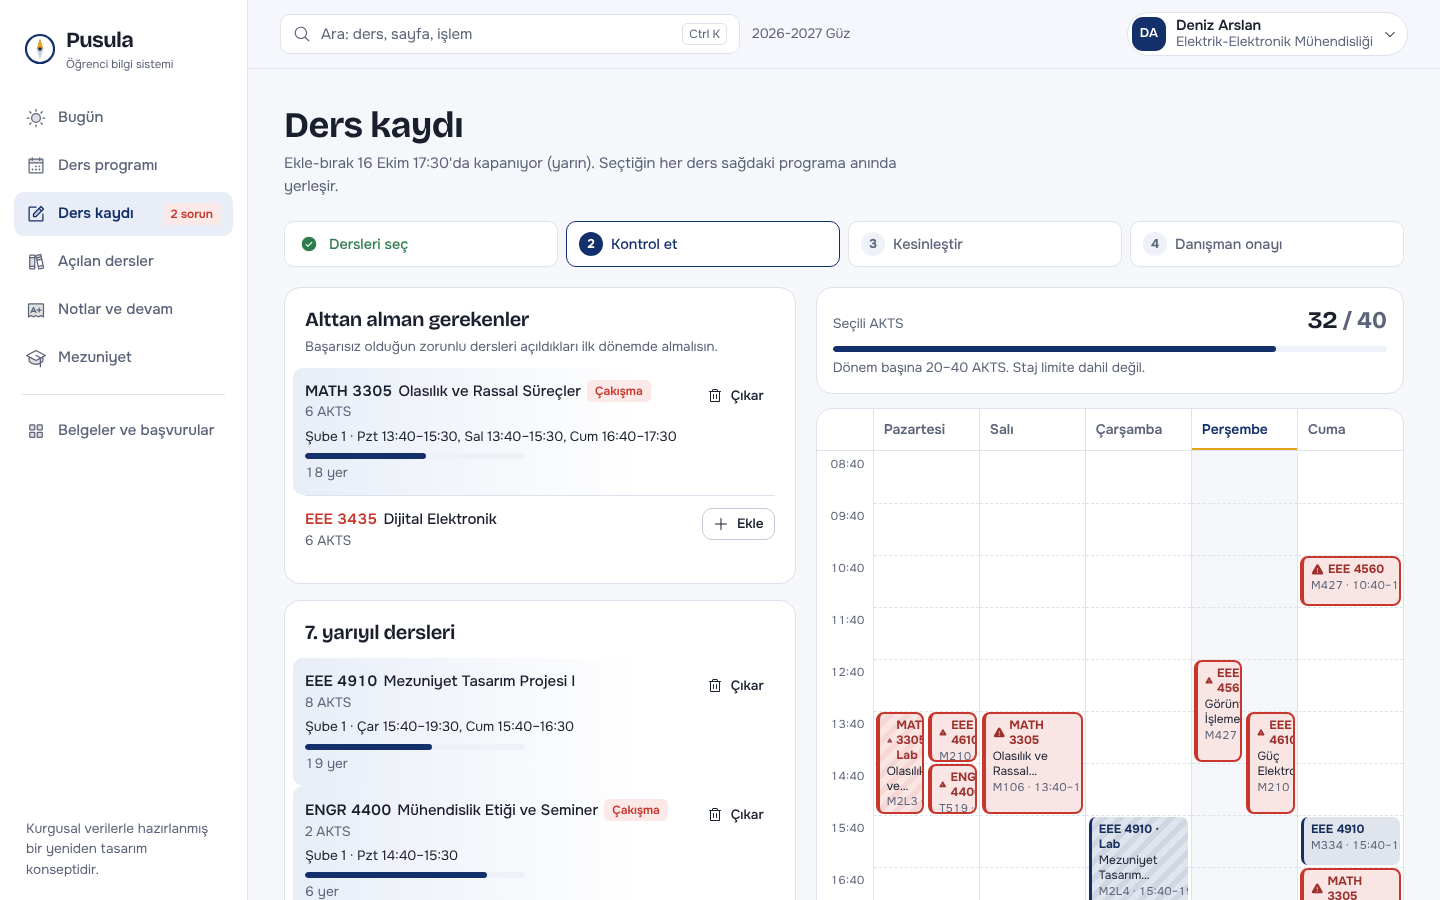
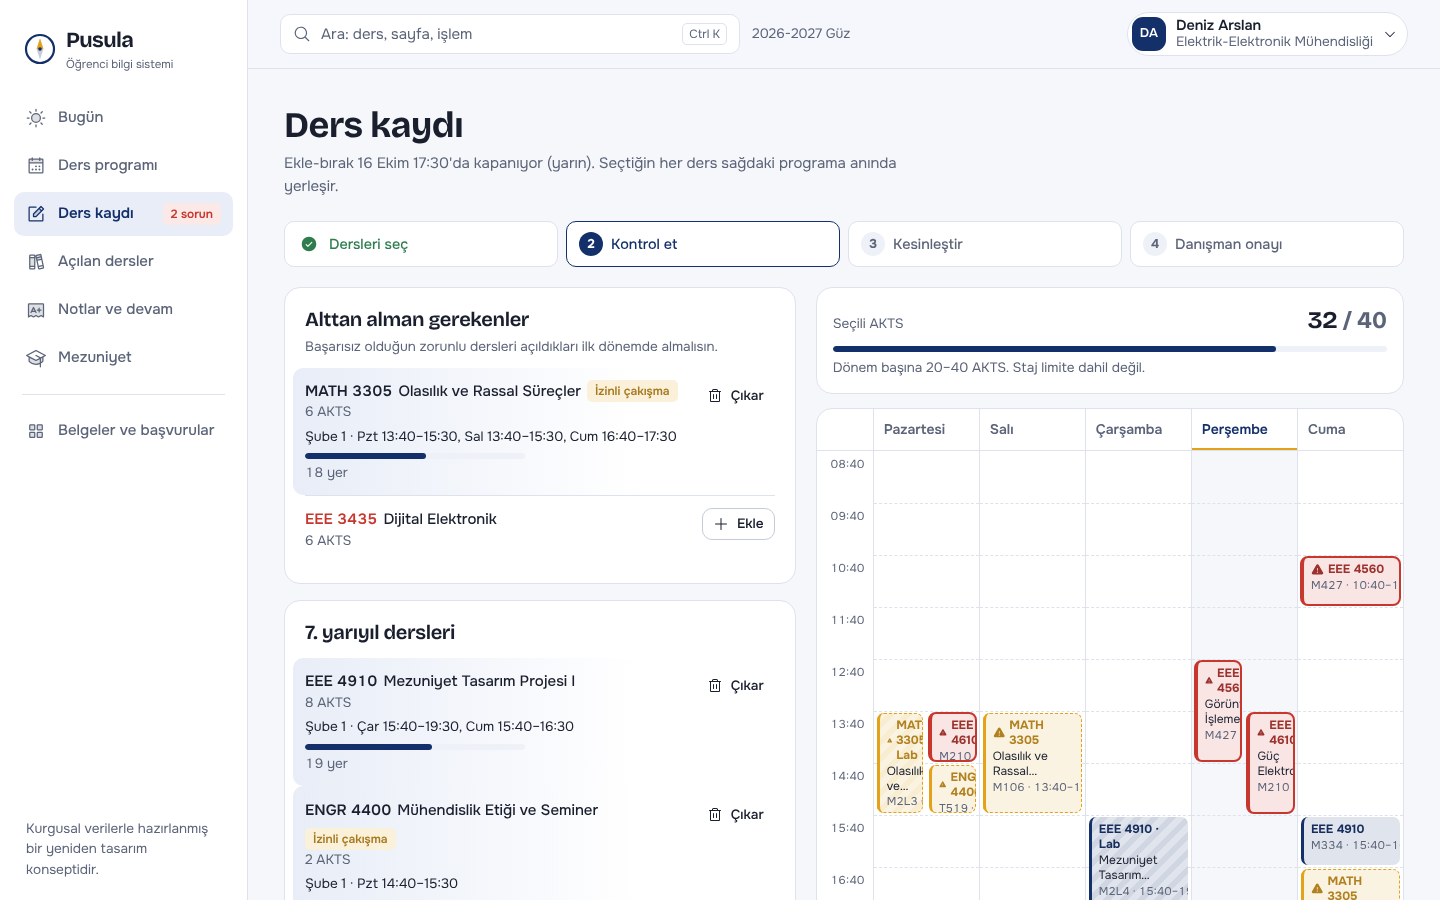
Kurallara göre izin verilen çakışmaları ayrı renkte göster
Claude-Session: https://claude.ai/code/session_01DAg3iQiUxSfv8Zgsi3HP1C

diff --git a/src/pages/Registration.jsx b/src/pages/Registration.jsx
@@ -6,7 +6,7 @@ import WeekGrid from '../components/WeekGrid.jsx'
 import { Quota } from './Courses.jsx'
 import { norm } from '../components/CommandPalette.jsx'
 import { COURSES, SECTIONS, CURRICULA, ELECTIVE_GROUPS, DAYS_SHORT, findSection } from '../data/catalog.js'
-import { blocksFor, conflictCodes, solveSections, timeRange, findConflicts } from '../lib/schedule.js'
+import { blocksFor, conflictCodes, softConflictCodes, solveSections, timeRange, findConflicts } from '../lib/schedule.js'
 import { validate, mustRetake, overlapAllowed } from '../lib/rules.js'
 import { calendarState, formatDate, relativeDay } from '../lib/dates.js'
 
@@ -27,7 +27,9 @@ export default function Registration() {
   const [solverMsg, setSolverMsg] = useState(null)
 
   const check = validate(student, sel)
-  const clashSet = conflictCodes(sel)
+  const allowed = overlapAllowed(student)
+  const clashSet = conflictCodes(sel, allowed)
+  const softSet = softConflictCodes(sel, allowed)
   const selected = new Map(sel.map((s) => [s.code, s.no]))
   const cal = calendarState()
   const addDrop = cal.items.find((e) => e.id === 'ekle')
@@ -55,7 +57,7 @@ export default function Registration() {
   const autoFix = () => {
     const codes = sel.map((s) => s.code)
     const fixed = Object.fromEntries(sel.filter((s) => s.code.endsWith('4830')).map((s) => [s.code, s.no]))
-    const res = solveSections(codes, { fixed, limit: 1, ignore: overlapAllowed(student) })
+    const res = solveSections(codes, { fixed, limit: 1, ignore: allowed })
     if (res.length) {
       const changed = res[0].filter((r) => selected.get(r.code) !== r.no).length
       setRegistration({ ...reg, selection: sel.map((s) => res[0].find((r) => r.code === s.code)) })
@@ -92,6 +94,7 @@ export default function Registration() {
             <span className="code">{code}</span> {COURSES[code].name}
             {level === 'error' && isSel && <XCircle size={16} weight="fill" color="var(--red)" aria-label="sorun var" />}
             {clashSet.has(code) && <span className="badge red">Çakışma</span>}
+            {softSet.has(code) && <span className="badge gold">İzinli çakışma</span>}
           </div>
           <div className="small muted">{COURSES[code].ects} AKTS{COURSES[code].prereq.length ? ` · Ön koşul: ${COURSES[code].prereq.join(', ')}` : ''}{COURSES[code].distance ? ' · Uzaktan' : ''}</div>
           {isSel && secs.length > 1 && !locked && (
@@ -229,7 +232,7 @@ export default function Registration() {
               <p className="small muted" style={{ marginTop: 6 }}>{check.limits.reason}. Staj limite dahil değil.</p>
             </div>
 
-            <WeekGrid blocks={blocks} ghosts={ghosts} conflicts={clashSet} showNow={false} emptyText="Ders ekledikçe programın burada oluşacak." />
+            <WeekGrid blocks={blocks} ghosts={ghosts} conflicts={clashSet} softConflicts={softSet} showNow={false} emptyText="Ders ekledikçe programın burada oluşacak." />
 
             {!locked && (
               <div className="issues panel" aria-live="polite">

diff --git a/src/components/WeekGrid.jsx b/src/components/WeekGrid.jsx
@@ -53,7 +53,7 @@ function nowInfo(now) {
   return { day, offset: minutes / 60 }
 }
 
-export default function WeekGrid({ blocks, conflicts = new Set(), ghosts = [], now = new Date(), showNow = true, onSelect, emptyText }) {
+export default function WeekGrid({ blocks, conflicts = new Set(), softConflicts = new Set(), ghosts = [], now = new Date(), showNow = true, onSelect, emptyText }) {
   const narrow = useNarrow()
   const today = nowInfo(now)
   const [mobileDay, setMobileDay] = useState(today.day < 5 ? today.day : 0)
@@ -100,11 +100,12 @@ export default function WeekGrid({ blocks, conflicts = new Set(), ghosts = [], n
               {rows.map((s) => <div key={s.index} className="week-cell" style={{ height: SLOT_H }} />)}
               {dayBlocks.map((b) => {
                 const clash = conflicts.has(b.code) && !b.ghost
+                const soft = !clash && softConflicts.has(b.code) && !b.ghost
                 return (
                   <button
                     type="button"
                     key={b.id}
-                    className={`block c${colorIndex(b.code)}${clash ? ' clash' : ''}${b.ghost ? ' ghost' : ''}${b.kind === 'U' ? ' lab' : ''}`}
+                    className={`block c${colorIndex(b.code)}${clash ? ' clash' : ''}${soft ? ' soft' : ''}${b.ghost ? ' ghost' : ''}${b.kind === 'U' ? ' lab' : ''}`}
                     style={{
                       top: (b.start - range.min) * SLOT_H + 2,
                       height: b.len * SLOT_H - 4,
@@ -113,10 +114,10 @@ export default function WeekGrid({ blocks, conflicts = new Set(), ghosts = [], n
                     }}
                     onClick={() => onSelect?.(b)}
                     tabIndex={onSelect ? 0 : -1}
-                    aria-label={`${b.code} ${b.name}, ${DAYS[b.day]} ${timeRange(b)}, ${b.room}${clash ? ', çakışıyor' : ''}`}
+                    aria-label={`${b.code} ${b.name}, ${DAYS[b.day]} ${timeRange(b)}, ${b.room}${clash ? ', çakışıyor' : soft ? ', izin verilen çakışma' : ''}`}
                   >
                     <span className="block-code">
-                      {clash && <Warning size={13} weight="fill" aria-hidden="true" />}
+                      {(clash || soft) && <Warning size={13} weight="fill" aria-hidden="true" />}
                       {b.online && <MonitorPlay size={13} weight="fill" aria-hidden="true" />}
                       {b.code}{b.kind === 'U' ? ' · Lab' : ''}
                     </span>

diff --git a/src/pages/Program.jsx b/src/pages/Program.jsx
@@ -3,9 +3,9 @@ import { Link } from 'react-router-dom'
 import { CalendarBlank, Warning, MonitorPlay } from '@phosphor-icons/react'
 import { useApp } from '../state/AppState.jsx'
 import WeekGrid, { colorIndex } from '../components/WeekGrid.jsx'
-import { blocksFor, findConflicts, conflictCodes, timeRange } from '../lib/schedule.js'
+import { blocksFor, findConflicts, conflictCodes, softConflictCodes, timeRange } from '../lib/schedule.js'
 import { COURSES, findSection, DAYS_SHORT, TERM } from '../data/catalog.js'
-import { selectionEcts, validate } from '../lib/rules.js'
+import { selectionEcts, validate, overlapAllowed } from '../lib/rules.js'
 import { downloadIcs } from '../lib/ics.js'
 
 export default function Program() {
@@ -15,7 +15,9 @@ export default function Program() {
   const sel = student.registration.selection
   const blocks = blocksFor(sel)
   const conflicts = findConflicts(sel)
-  const clashSet = conflictCodes(sel)
+  const allowed = overlapAllowed(student)
+  const clashSet = conflictCodes(sel, allowed)
+  const softSet = softConflictCodes(sel, allowed)
   // F ile kalınan dersin çakışmasına kurallar izin veriyor; bunları uyarı olarak göster
   const hardClash = validate(student, sel).issues.some((i) => i.level === 'error' && i.title.includes('çakışıyor'))
 
@@ -53,12 +55,13 @@ export default function Program() {
 
       {view === 'week' ? (
         <>
-          <WeekGrid blocks={blocks} conflicts={clashSet} onSelect={(b) => setFocus(b.code)} emptyText="Henüz ders seçmedin. Ders kaydından başlayabilirsin." />
+          <WeekGrid blocks={blocks} conflicts={clashSet} softConflicts={softSet} onSelect={(b) => setFocus(b.code)} emptyText="Henüz ders seçmedin. Ders kaydından başlayabilirsin." />
           <div className="legend small muted">
             <span><span className="sw" /> Teorik</span>
             <span><span className="sw lab" /> Uygulama / lab</span>
             <span><MonitorPlay size={14} aria-hidden="true" /> Uzaktan</span>
             <span><span className="sw clash" /> Çakışma</span>
+            {softSet.size > 0 && <span><span className="sw soft" /> İzinli çakışma (F)</span>}
           </div>
           {focus && <CourseDetail code={focus} sel={sel} onClose={() => setFocus(null)} />}
         </>

diff --git a/src/pages/Today.jsx b/src/pages/Today.jsx
@@ -3,7 +3,7 @@ import { MapPin, MonitorPlay, Warning, CheckCircle, X, Hourglass, Clock } from '
 import { useApp } from '../state/AppState.jsx'
 import { blocksFor, conflictCodes } from '../lib/schedule.js'
 import { standing, graduationProgress } from '../lib/progress.js'
-import { validate, selectionEcts } from '../lib/rules.js'
+import { validate, selectionEcts, overlapAllowed } from '../lib/rules.js'
 import { calendarState, formatDate, relativeDay } from '../lib/dates.js'
 import { ANNOUNCEMENTS } from '../data/calendar.js'
 import { DAYS, SLOTS } from '../data/catalog.js'
@@ -20,7 +20,7 @@ export default function Today() {
   const now = new Date()
   const reg = student.registration
   const blocks = blocksFor(reg.selection)
-  const clashes = conflictCodes(reg.selection)
+  const clashes = conflictCodes(reg.selection, overlapAllowed(student))
   const weekday = (now.getDay() + 6) % 7
   const isWeekend = weekday > 4
   const shownDay = isWeekend ? 0 : weekday

diff --git a/src/lib/schedule.js b/src/lib/schedule.js
@@ -38,9 +38,24 @@ export function findConflicts(selection) {
   return pairs
 }
 
-export function conflictCodes(selection) {
+export function conflictCodes(selection, ignore = new Set()) {
   const set = new Set()
-  findConflicts(selection).forEach((p) => { set.add(p.a); set.add(p.b) })
+  findConflicts(selection).forEach((p) => {
+    if (ignore.has(p.a) || ignore.has(p.b)) return
+    set.add(p.a); set.add(p.b)
+  })
+  return set
+}
+
+// Yalnızca izin verilen (F ile kalınan dersin) çakışmalarına giren dersler
+export function softConflictCodes(selection, ignore) {
+  const hard = conflictCodes(selection, ignore)
+  const set = new Set()
+  findConflicts(selection).forEach((p) => {
+    if (!(ignore.has(p.a) || ignore.has(p.b))) return
+    if (!hard.has(p.a)) set.add(p.a)
+    if (!hard.has(p.b)) set.add(p.b)
+  })
   return set
 }
 

diff --git a/src/styles/components.css b/src/styles/components.css
@@ -85,6 +85,7 @@
 .block-meta { color: var(--slate); font-size: 0.7rem; white-space: nowrap; }
 .block.lab { background-image: repeating-linear-gradient(135deg, transparent 0 6px, color-mix(in srgb, var(--c) 8%, transparent) 6px 12px); }
 .block.clash { --c: var(--red); outline: 2px solid var(--red); outline-offset: -1px; }
+.block.soft { --c: var(--gold); outline: 1.5px dashed var(--gold); outline-offset: -1px; }
 .block.ghost { opacity: 0.75; border-left-style: dashed; background: transparent; outline: 1.5px dashed var(--c); outline-offset: -1.5px; }
 .c0 { --c: #14306b; } .c1 { --c: #1f7a8c; } .c2 { --c: #7a4b8c; } .c3 { --c: #6b7a2e; }
 .c4 { --c: #9c4a3a; } .c5 { --c: #4a5fa8; } .c6 { --c: #2f7d4f; } .c7 { --c: #b07a12; }

diff --git a/src/styles/pages.css b/src/styles/pages.css
@@ -32,6 +32,7 @@
 .sw { width: 14px; height: 14px; border-radius: 4px; background: color-mix(in srgb, var(--navy) 18%, var(--surface)); border-left: 3px solid var(--navy); display: inline-block; }
 .sw.lab { background-image: repeating-linear-gradient(135deg, transparent 0 3px, color-mix(in srgb, var(--navy) 25%, transparent) 3px 6px); }
 .sw.clash { border: 2px solid var(--red); background: var(--red-050); }
+.sw.soft { border: 1.5px dashed var(--gold); background: var(--gold-050); }
 .sw.st-done { background: var(--green-050); border-left-color: var(--green); }
 .sw.st-now { background: var(--navy-050); border-left-color: var(--navy); }
 .sw.st-failed { background: var(--red-050); border-left-color: var(--red); }
